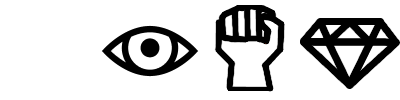
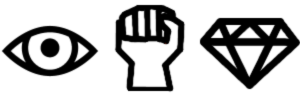
components final
got component icons to center correctly, next is speial bold text

diff --git a/draft2.py b/draft2.py
@@ -39,7 +39,7 @@ class Layout:
             for j in range(0,len(self.elements[i])):
                 k = self.elements[i][j]
                 x = y = 0
-                if k[1] == 'FLUSH': x = self.elements[i][j-1][0].get_width()+10
+                if k[1] == 'FLUSH': x = self.elements[i][j-1][0].get_width()
                 elif k[1] == 'CENTER': x = (width-k[0].get_width())//2
                 elif k[1] == 'RIGHT': x = width-k[0].get_width()
                 elif k[1] == 'RELATIVE':
@@ -94,12 +94,12 @@ class Draw:
         self.CR.blit(a,(d+10,0))
 
         self.components = {}
+        key = ['V','S','M']
         #import component icons
         a = pygame.image.load('components.png')
-        keys = [' ','V','S','M']
-        for i in range(0,4):
+        for i in range(0,3):
             b = a.subsurface(pygame.Rect(i*100,0,100,100))
-            self.components[keys[i]] = b
+            self.components[key[i]] = b
         
     def getLevel(self,school,level,font,d=80):
         b = pygame.transform.scale(self.icons[school],(d,d))
@@ -117,15 +117,17 @@ class Draw:
         return b
     
     def getComponents(self,com,d=60):
-        b = pygame.Surface((d*len(com),d))
+        width = 350
+        x = (width-len(com)*d)//(len(com)+1)
+        b = pygame.Surface((width,d))
         b.fill((255,255,255))
         for i in range(0,len(com)):
-            print(com[i])
             a = pygame.transform.scale(self.components[com[i]],(d,d))
-            b.blit(a,(i*d,0))
+            b.blit(a,(x+i*(x+d),0))
         return b
     
     def visualize(self,info):
+        #parse fonts (temporary)
         font_info = [('Calibri',17),('Calibri',73),('Calibri',26)]
         font_info.append(font_info[0])
         fonts = []
@@ -144,15 +146,15 @@ class Draw:
         l.add(2,self.getRC(info['ritual'],info['concentration']),'RIGHT','CENTER')
         l.add(4,self.getComponents(info['components']),'CENTER','CENTER')#divider
         l.add(5,self.getText(info['damage'],fonts[1]))
-        l.add(5,self.getText(info['type'],fonts[2]),'FLUSH','OFFSET')
+        l.add(5,self.getText(' '+info['type'],fonts[2]),'FLUSH','OFFSET')
         l.add(6,self.wrap(info['description'],width,fonts[0]))
-        l.add(7,self.wrap(' '*34+info['higher'],width,fonts[0]),y='CENTER')
+        l.add(7,self.wrap(' '*34+info['higher'],width,fonts[0]),y='CENTER')#special bold
         l.add(7,self.getText('At Higher Levels:',fonts[3]))
         l.add(8,self.getText('PHB '+info['page']+' '*5,fonts[0]),'RIGHT','BOTTOM')
         
         return l.draw()
 
-    
+    #rename to gettext,width=0,if width==0:just return line
     def wrap(self,text,width,font):
         words = [i+' ' for i in text.split(' ')]
 
@@ -176,7 +178,7 @@ class Draw:
         return text_surface
 
     
-    def getText(self,text,font):
+    def getText(self,text,font):#replace functionality with wrap
         return font.render(text,1,(0,0,0),(255,255,255))
     
 class __main__:

diff --git a/test.py b/test.py
@@ -6,6 +6,6 @@ im.__init__()
 
 x = {'a':1,'b':2,'c':3}
 print(x)
-for j in x.items():
+for i,j in x.items():
     j += 1
 print(x)
